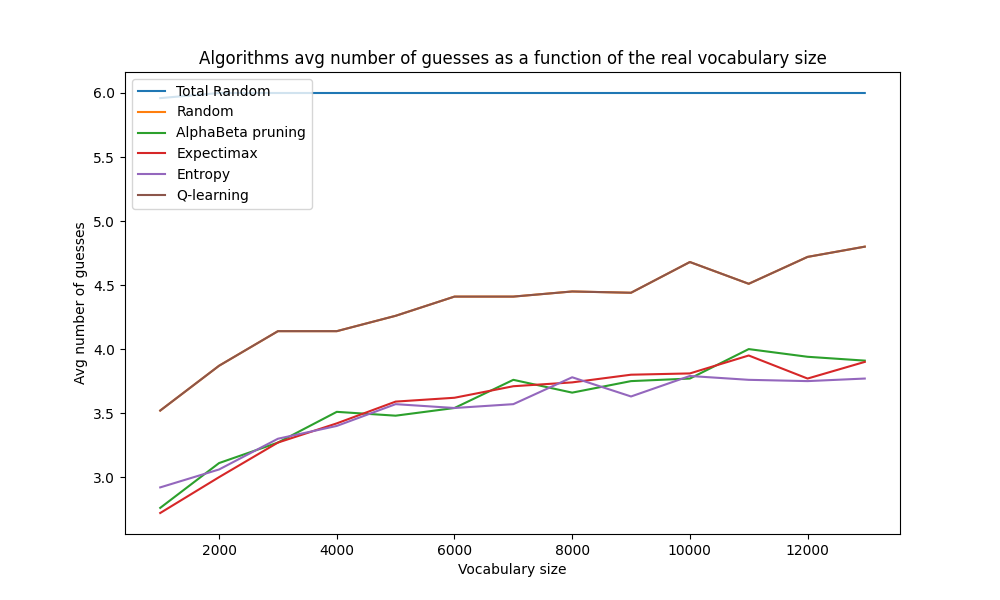
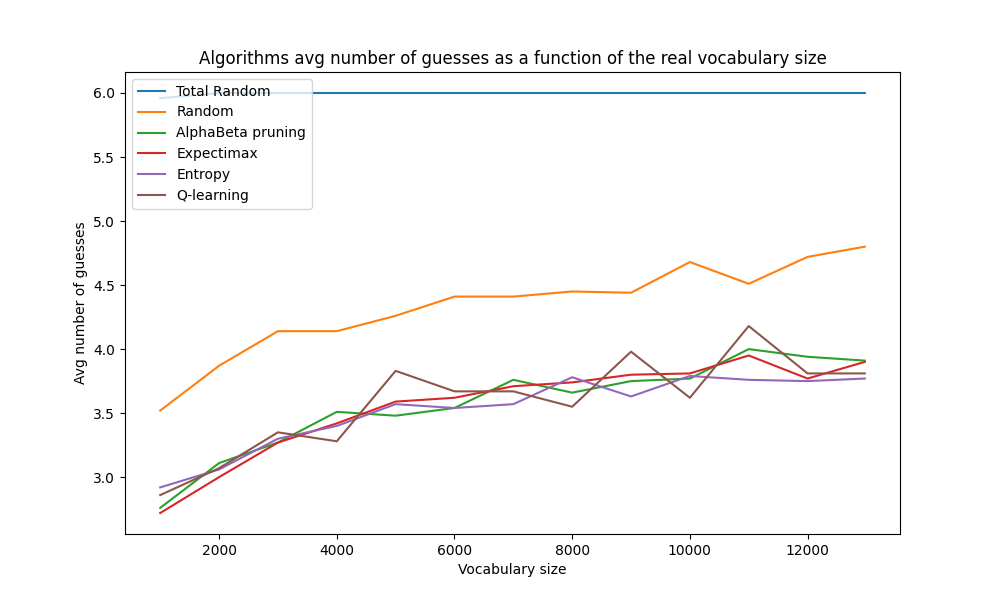
1

diff --git a/algorithms_evaluation.py b/algorithms_evaluation.py
@@ -187,13 +187,13 @@ def evaluate_vocab(secret_words, legal_words, algorithms):
     plt.plot(vocabulary_sizes, alphabeta, label="AlphaBeta pruning")
     plt.plot(vocabulary_sizes, expectimax, label="Expectimax")
     plt.plot(vocabulary_sizes, Entropy, label="Entropy")
-    plt.plot(vocabulary_sizes, Frq, label="Entroyp with Frequency")
-    plt.plot(vocabulary_sizes, random, label="Q-learning")
+    #plt.plot(vocabulary_sizes, Frq, label="Entroyp with Frequency")
+    plt.plot(vocabulary_sizes, RL, label="Q-learning")
     plt.title("Algorithms avg number of guesses as a function of the real vocabulary size")
     plt.ylabel("Avg number of guesses")
     plt.xlabel("Vocabulary size")
     plt.legend(loc='upper left')
-    plt.savefig("data/plots/vocab_wordle_avg_guesses2")
+    plt.savefig("data/plots/vocab_wordle_avg_guesses1")
     plt.show()
 
 
